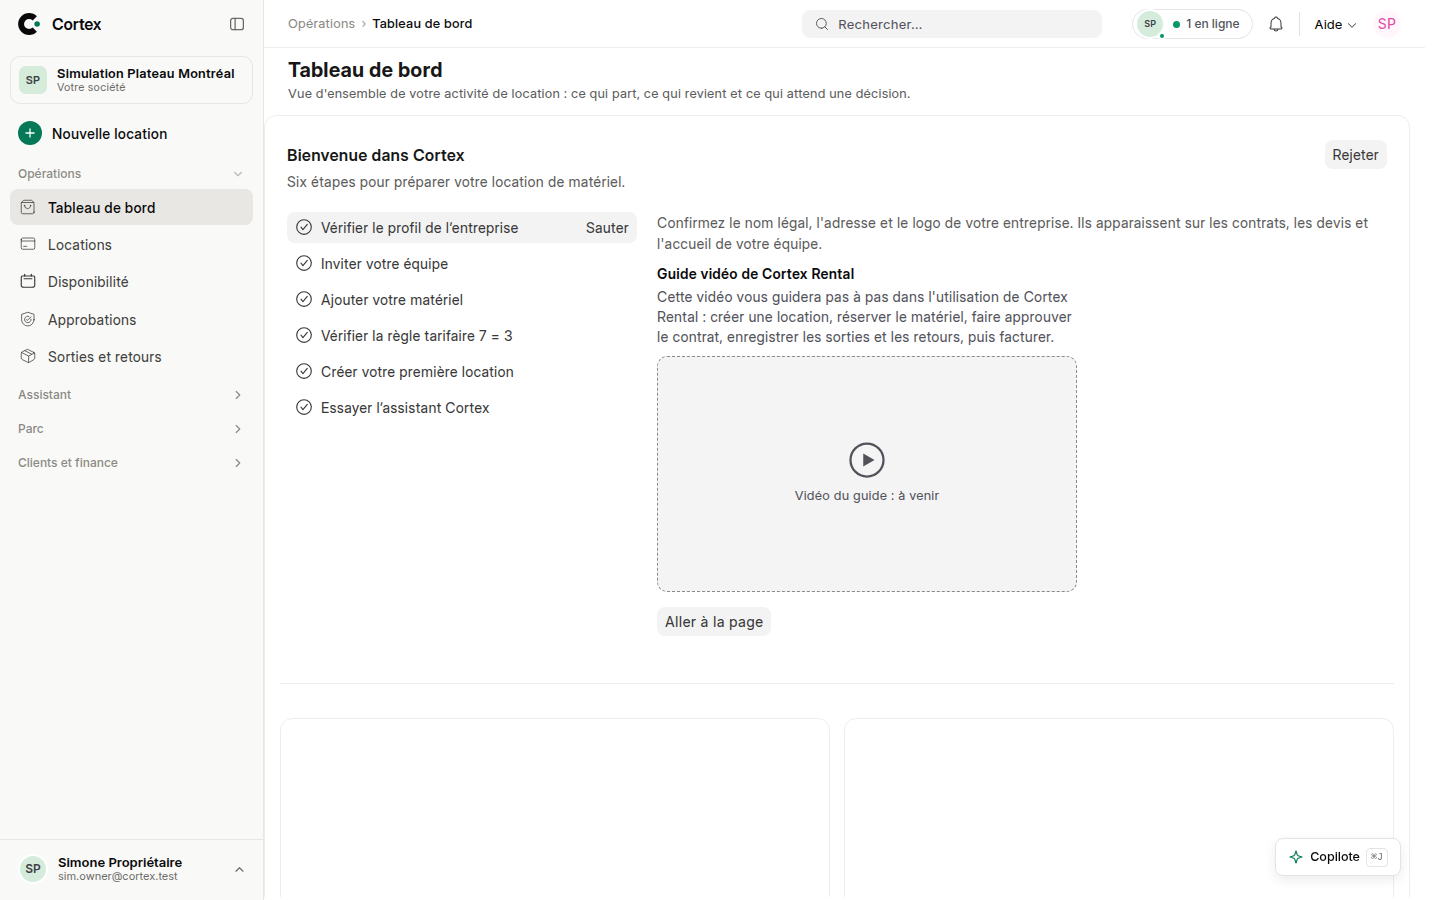
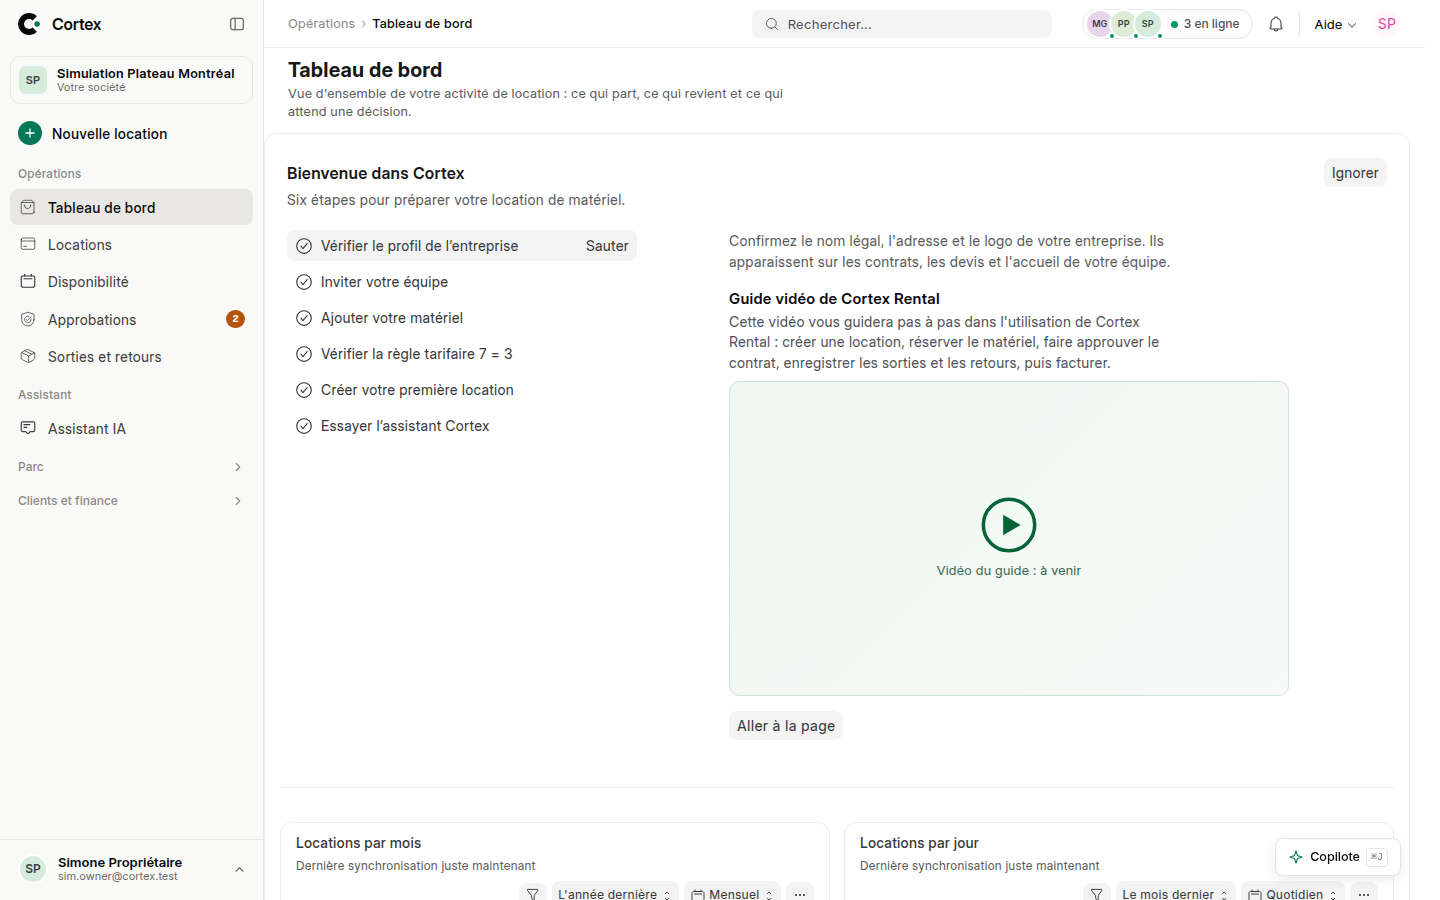
Paiement direct sur la facture, état « Clos », captures et documentation de la vérification de bout en bout
Claude-Session: https://claude.ai/code/session_01HsVxSz82UknnP3QNb2Kvxo

diff --git a/apps/cortex_rental/cortex_rental/cortex_rental/doctype/cortex_rental_invoice/cortex_rental_invoice.js b/apps/cortex_rental/cortex_rental/cortex_rental/doctype/cortex_rental_invoice/cortex_rental_invoice.js
@@ -23,7 +23,7 @@ frappe.ui.form.on("Cortex Rental Invoice", {
 					__("Enregistrer un paiement"),
 					__("Enregistrer")
 				);
-			}, __("Actions"));
+			}).removeClass("btn-default").addClass("btn-primary");
 		}
 		if (frm.doc.rental_transaction) {
 			frm.add_custom_button(__("Ouvrir la location"), () => frappe.set_route("Form", "Cortex Rental Transaction", frm.doc.rental_transaction), __("Actions"));

diff --git a/docs/frontend/CORTEX_UI_HANDOFF_V2.md b/docs/frontend/CORTEX_UI_HANDOFF_V2.md
@@ -153,6 +153,8 @@ Flux attendu : Vue → API Frappe authentifiée → service Cortex → (a) Onyx 
 
 - **Portail de devis** (ADR-007) : page publique `/devis/<jeton>` (`www/devis.*`, sans compte, responsive, imprimable) ; l'équipe crée un lien à copier ou envoyé par courriel depuis la location (« Partager avec le client »). Le client accepte, refuse ou demande une modification ; la réponse est auditée, avertit l'équipe, et **ne réserve rien**. Vérifié sur le bench : création, consultation anonyme, acceptation, double réponse refusée, lien périmé/révoqué. Le courriel sortant n'est pas configuré sur le bench (échec propre, lien affiché).
 - **Après l'acceptation** : alerte en direct avec bouton « Réserver », bouton « Réserver maintenant » sur la location, réservation automatique optionnelle par société (désactivée par défaut), paiement de l'acompte dans le portail (Stripe, clés de la société; webhook signé) avec instructions manuelles en repli. Vérifié sur le bench avec une session Stripe simulée : facture payée, un seul paiement (rejeu ignoré), écritures équilibrées, signature invalide refusée; **non testé avec un vrai compte Stripe**.
+- **Vérification de bout en bout par l'interface (2026-10-05)** : devis → partage → acceptation par le client sur le portail → bandeau et « Réserver maintenant » → demande de contrat → approbation par **une autre personne** → sortie par balayage des séries → retour → **clôture** → facture finale → paiement (écritures comptables équilibrées). Défauts trouvés et corrigés : (1) le retour par numéro de série n'additionnait pas les unités d'une même ligne, la location restait « Sorti »; (2) le propriétaire ne pouvait pas créer de demande d'approbation (droits); (3) aucun bouton pour **clôturer, annuler ou ouvrir un litige** (ajoutés, `rentals.change_state`); (4) Approuver/Refuser cachés dans un menu (maintenant directs; le demandeur voit pourquoi il ne peut pas décider); (5) « Enregistrer un paiement » caché dans un menu (maintenant direct).
+- **Mon compte** (`cortex-account`) : profil et photo, mot de passe (ancien requis, force vérifiée, autres appareils déconnectés), appareils connectés, notifications courriel, société et rôles, usage de l'IA, activité récente. Toutes les actions visent seulement la personne connectée.
 - **Page de devis refondue** (épurée, minimaliste, dense : lignes compactes, barre d'actions fixe en bas sur téléphone, tout le devis visible sans défiler sur un écran de 390 px).
 - **Barre latérale** : tous les groupes sont repliables (chevron toujours visible; sans préférence, seul le groupe de la page courante est ouvert). **Fil d'Ariane** « Groupe › Page › Fiche » dérivé de la barre latérale (`cortex.NAV.locate`), sans flèche au début, dans la langue de l'interface. **Titres alignés** sur la barre latérale (« Locations », « Approbations », « Catalogue », « Disponibilité »…); dates des listes en français (Intl).
 - **Plafond d'IA** : au plafond mensuel, passage automatique au modèle économique avec avis à la personne (ADR-006).

diff --git a/CHANGELOG.md b/CHANGELOG.md
@@ -2,6 +2,9 @@
 
 ## Unreleased
 
+- **Actions complètes d'une location** : Annuler, Ouvrir un litige et Clôturer le dossier (API `rentals.change_state`); correctif du retour par numéro de série (une ligne de plusieurs unités sérialisées restait à moitié retournée); création de demandes d'approbation permise aux gestionnaires; Approuver/Refuser et Enregistrer un paiement en boutons directs.
+- **Mon compte** : profil, sécurité (mot de passe, appareils), notifications, société et rôles, usage de l'IA, activité.
+- **Disponibilité** plus grande et épurée (remplissage proportionnel, en-têtes fixes). **Devis** : confirmation par case à cocher, bouton d'envoi retardé, refus serveur sans confirmation, PDF dans la barre d'actions, barres de répartition. Tableau de bord aéré, groupes Opérations et Assistant épinglés.
 - **Plafond d'IA** : passage automatique au modèle économique (`gemini-3.1-flash-lite`) avec avis à la personne; refus seulement à 150 % du budget. Patch `set_ai_economy_defaults`.
 - **Page de devis** refondue (épurée, dense, pensée pour les petits écrans). Barre latérale : groupes tous repliables; fil d'Ariane « Groupe › Page › Fiche » en français; titres de pages alignés sur la barre latérale (Locations, Approbations, Catalogue…); dates de liste en français. Guide Amazon SES.
 - **Après l'acceptation d'un devis** : alerte en direct avec bouton « Réserver », réservation automatique optionnelle par société (au nom de la personne qui a partagé, disponibilité revérifiée), paiement de l'acompte dans le portail (Stripe Checkout avec les clés de la société, webhook signé, paiement unique par session) avec instructions manuelles en repli.
